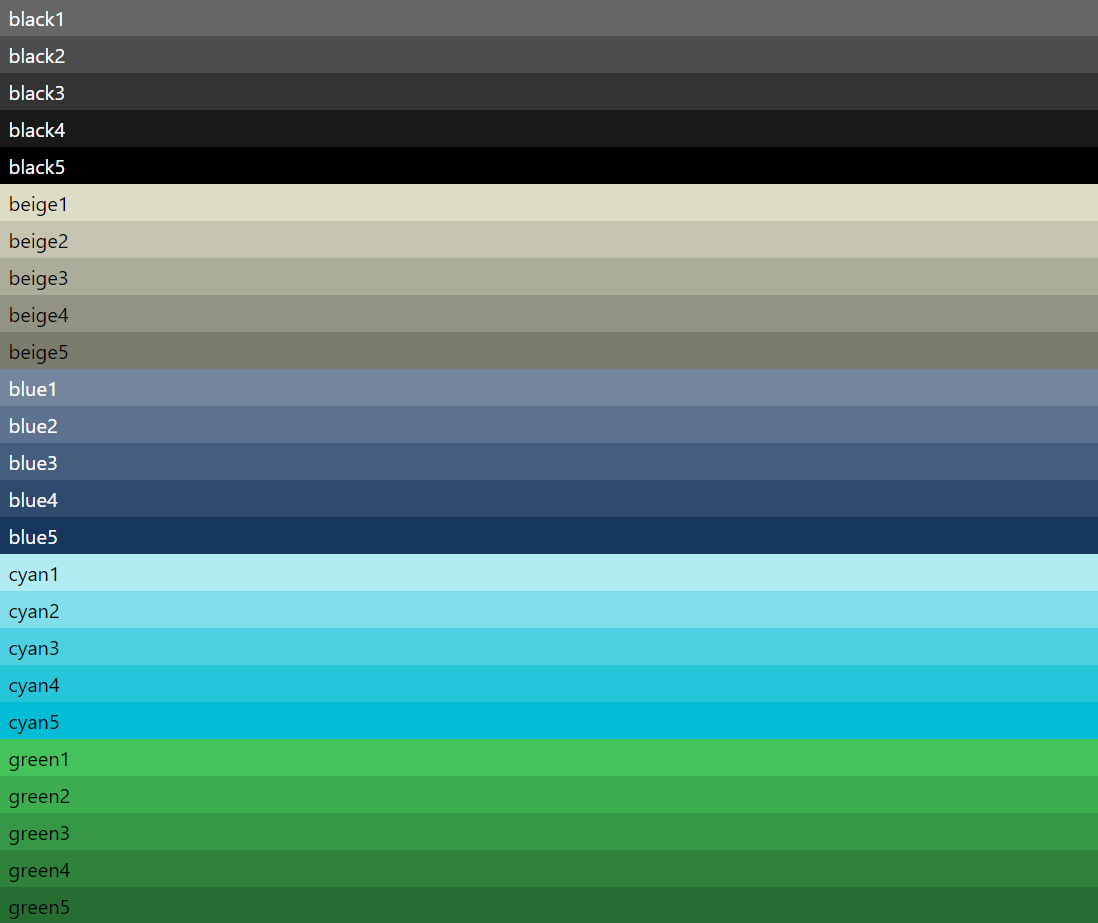
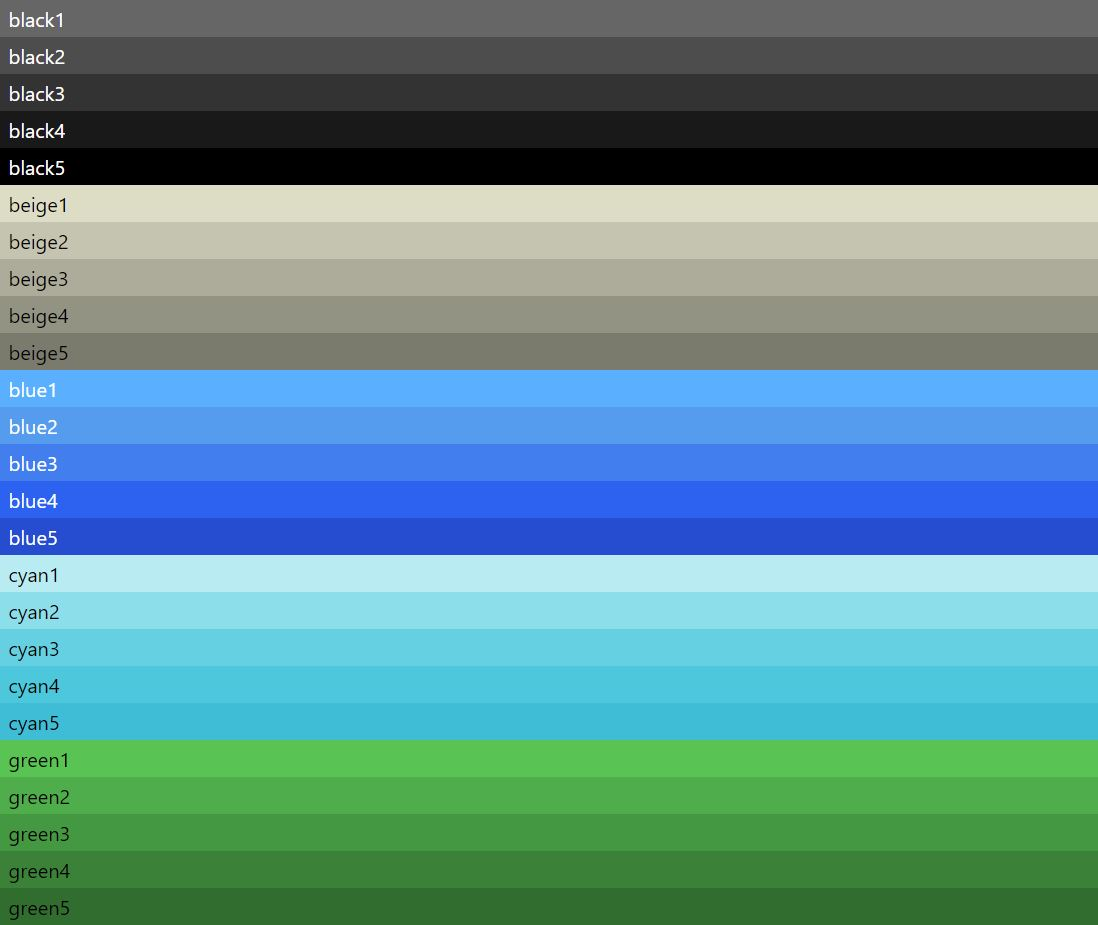
uppdate

Changed region(s): [[0.0, 0.0, 1.0, 1.0]]

diff --git a/index.js b/index.js
@@ -65,25 +65,25 @@ function ColorEngine(color, selector) {
             let timer = 0;
             const interval1 = setInterval(() => {
             timer++
-            doc[i].style.backgroundColor = "rgb(93, 114, 142)"
+            doc[i].style.backgroundColor = "rgb(70, 155, 235)"
             if (interval1 > 1) {
                 clearInterval(interval1)
                 let timer = 0;
                 const interval2 = setInterval(() => {
                 timer++
-                doc[i].style.backgroundColor = "rgb(69, 94, 125)"
+                doc[i].style.backgroundColor = "rgb(50, 125, 235)"
                 if (timer > 1) {
                     clearInterval(interval2)
                     let timer = 0;
                     const interval3 = setInterval(() => {
                     timer++
-                    doc[i].style.backgroundColor = "rgb(46, 74, 109)"
+                    doc[i].style.backgroundColor = "rgb(20, 95, 235)"
                     if (timer > 1) {
                         clearInterval(interval3)
                         let timer = 0;
                         const interval4 = setInterval(() => {
                         timer++
-                        doc[i].style.backgroundColor = "rgb(23, 54, 93)"
+                        doc[i].style.backgroundColor = "rgb(20, 75, 205)"
                         if (timer > 1) {
                             clearInterval(interval4)
                         }
@@ -94,22 +94,22 @@ function ColorEngine(color, selector) {
                 }, 500)
             }
             }, 500)
-            return doc[i].style.background = "rgb(116, 134, 158)"
+            return doc[i].style.background = "rgb(70, 175, 255)"
         }
         if (color === "blue1") {
-            return doc[i].style.background = "rgb(116, 134, 158)"
+            return doc[i].style.background = "rgb(70, 175, 255)"
         } 
         else if (color === "blue2") {
-            doc[i].style.backgroundColor = "rgb(93, 114, 142)"
+            return doc[i].style.background = "rgb(70, 155, 235)"
         }
         else if (color === "blue3") {
-            doc[i].style.backgroundColor = "rgb(69, 94, 125)"
+            return doc[i].style.background = "rgb(50, 125, 235)"
         }
         else if (color === "blue4") {
-            doc[i].style.backgroundColor = "rgb(46, 74, 109)"
+            return doc[i].style.background = "rgb(20, 95, 235)"
         }
         else if (color === "blue5") {
-            doc[i].style.backgroundColor = "rgb(23, 54, 93)"
+            return doc[i].style.background = "rgb(20, 75, 205)"
         }
     }
     
@@ -176,19 +176,19 @@ function ColorEngine(color, selector) {
             let timer = 0;
             const interval1 = setInterval(() => {
             timer++
-            doc[i].style.backgroundColor = "rgb(177, 81, 82)"
+            doc[i].style.backgroundColor = "rgb(187, 81, 82)"
             if (interval1 > 1) {
                 clearInterval(interval1)
                 let timer = 0;
                 const interval2 = setInterval(() => {
                 timer++
-                doc[i].style.backgroundColor = "rgb(166, 56, 57)"
+                doc[i].style.backgroundColor = "rgb(176, 56, 57)"
                 if (timer > 1) {
                     clearInterval(interval2)
                     let timer = 0;
                     const interval3 = setInterval(() => {
                     timer++
-                    doc[i].style.backgroundColor = "rgb(155, 31, 33)"
+                    doc[i].style.backgroundColor = "rgb(160, 31, 33)"
                     if (timer > 1) {
                         clearInterval(interval3)
                         let timer = 0;
@@ -205,19 +205,19 @@ function ColorEngine(color, selector) {
                 }, 500)
             }
             }, 500)
-            return doc[i].style.background = "rgb(188, 106, 107)"
+            return doc[i].style.background = "rgb(198, 106, 107)"
         }
         if (color === "red1") {
-            return doc[i].style.background = "rgb(188, 106, 107)"
+            return doc[i].style.background = "rgb(198, 106, 107)"
         } 
         else if (color === "red2") {
-            doc[i].style.backgroundColor = "rgb(177, 81, 82)"
+            doc[i].style.backgroundColor = "rgb(187, 81, 82)"
         }
         else if (color === "red3") {
-            doc[i].style.backgroundColor = "rgb(166, 56, 57)"
+            doc[i].style.backgroundColor = "rgb(176, 56, 57)"
         }
         else if (color === "red4") {
-            doc[i].style.backgroundColor = "rgb(155, 31, 33)"
+            doc[i].style.backgroundColor = "rgb(160, 31, 33)"
         }
         else if (color === "red5") {
             doc[i].style.backgroundColor = "rgb(144, 6, 8)"
